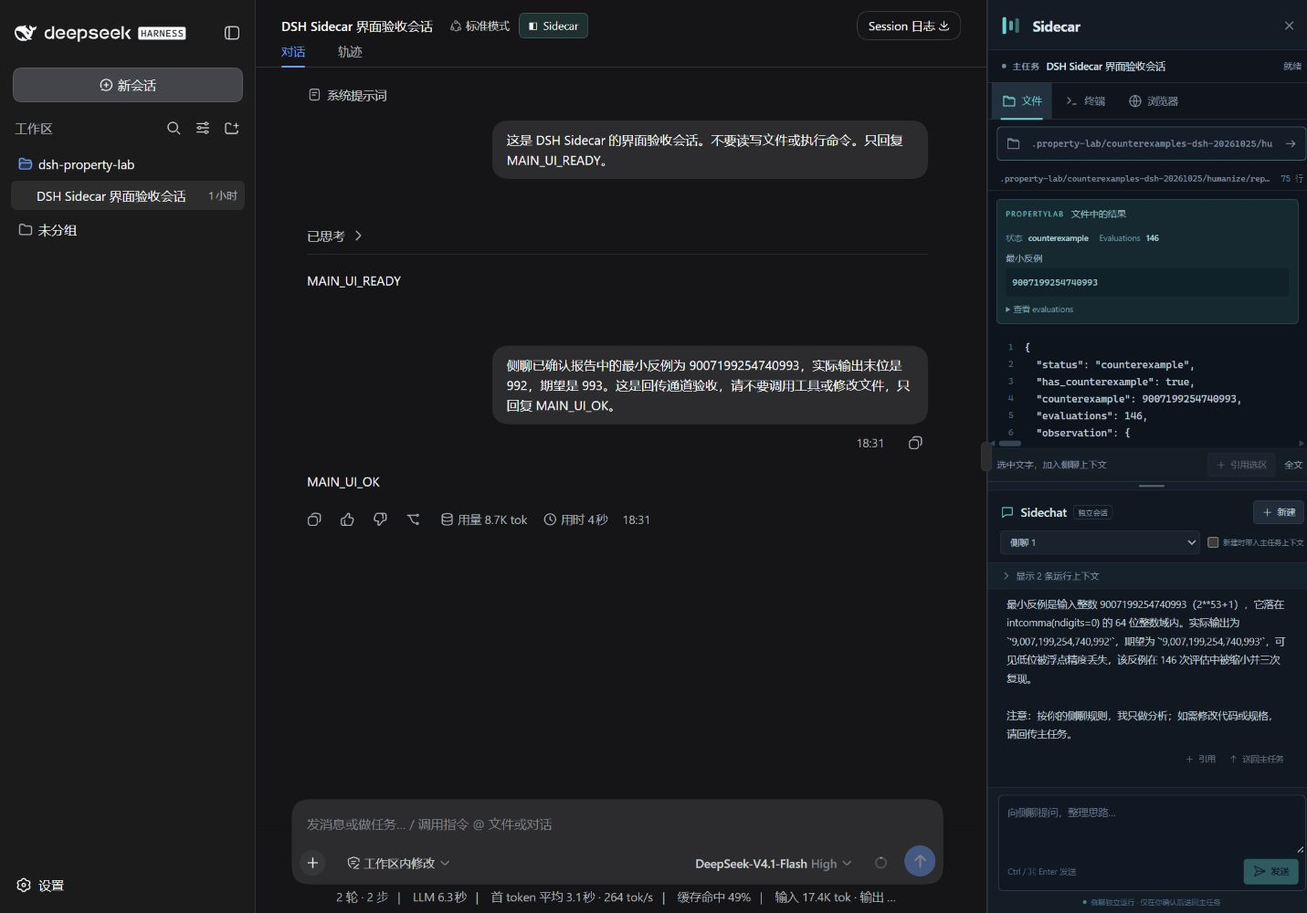
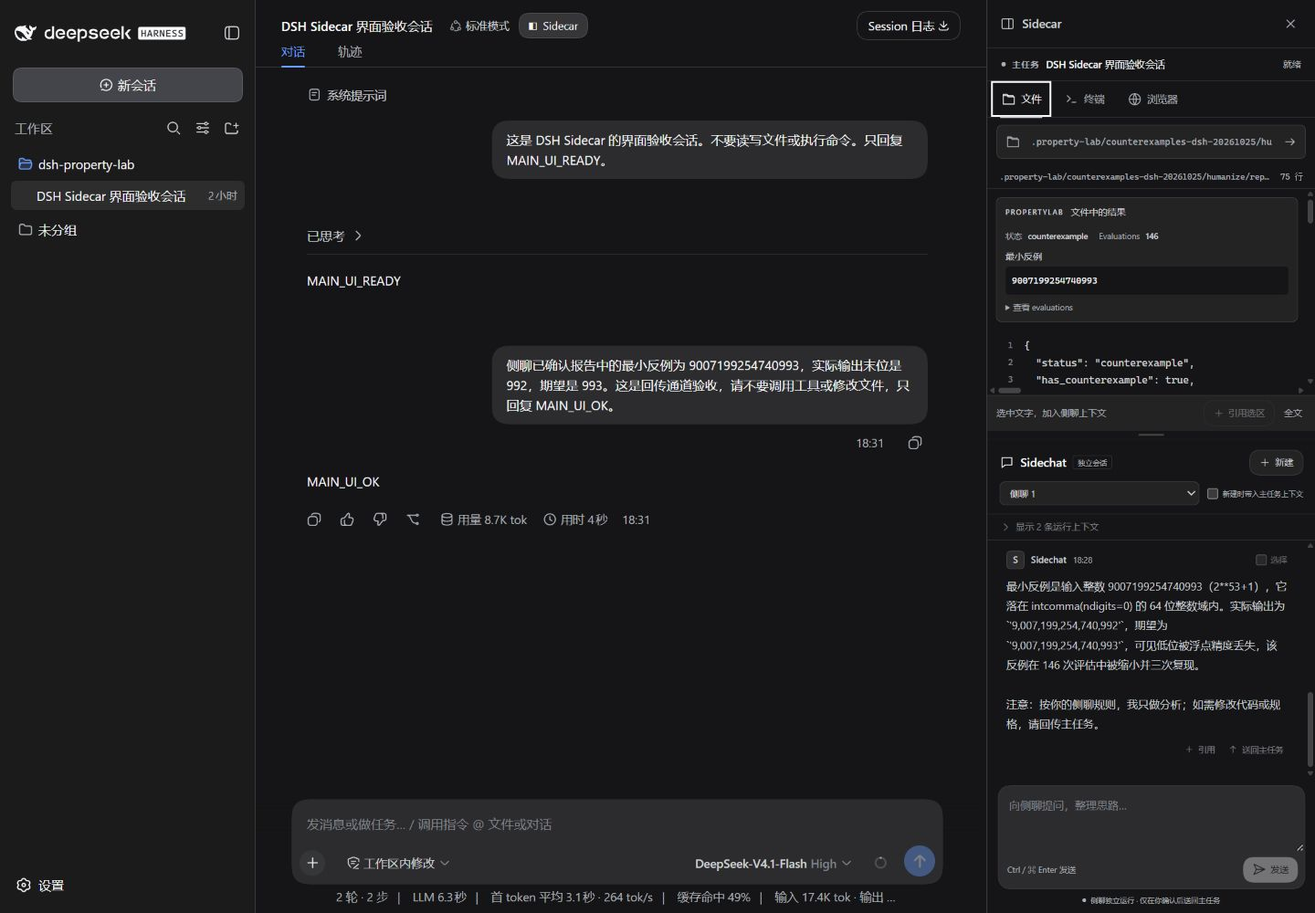
Match Sidecar to the native DSH neutral theme

diff --git a/src/panel.css b/src/panel.css
@@ -1,12 +1,22 @@
 .dsh-sidecar {
-  --sc-bg: #10151d;
-  --sc-surface: #151c26;
-  --sc-raised: #1b2430;
-  --sc-line: #283341;
-  --sc-ink: #dce6ef;
-  --sc-muted: #8494a6;
-  --sc-accent: #69d5d1;
-  --sc-accent-dim: #173b40;
+  /* DSH 0.1.2-rc.1 native theme aliases, with standalone dark fallbacks. */
+  --sc-bg: var(--dsw-alias-bg-base, #151517);
+  --sc-surface: var(--dsw-alias-bg-layer-1, #232324);
+  --sc-raised: var(--dsw-alias-bg-layer-2, #2c2c2e);
+  --sc-hover: var(--dsw-alias-interactive-bg-hover, #ffffff14);
+  --sc-active: var(--dsw-alias-interactive-bg-active, #ffffff24);
+  --sc-line: var(--dsw-alias-border-l2, #ffffff1f);
+  --sc-line-soft: var(--dsw-alias-border-l1, #ffffff0f);
+  --sc-focus: var(--dsw-alias-border-l4, #ffffff33);
+  --sc-ink: var(--dsw-alias-label-primary, #f9fafb);
+  --sc-secondary: var(--dsw-alias-label-secondary, #cfd3d6);
+  --sc-muted: var(--dsw-alias-label-tertiary, #adb2b8);
+  --sc-caption: var(--dsw-alias-label-caption, #81858c);
+  --sc-accent: var(--dsw-alias-button-primary-fill, #f9fafb);
+  --sc-accent-dim: var(--dsw-alias-bg-layer-2, #2c2c2e);
+  --sc-button-hover: var(--dsw-alias-button-primary-hover, #ebeef2);
+  --sc-button-ink: var(--dsw-alias-label-primary-foreground, #0f1115);
+  --sc-input: var(--dsw-specific-input-major, #2c2c2e);
   display: flex;
   flex-direction: column;
   position: relative;
@@ -19,10 +29,10 @@
   background: var(--sc-bg);
   color: var(--sc-ink);
   border-left: 1px solid var(--sc-line);
-  font-family: Inter, -apple-system, BlinkMacSystemFont, "Segoe UI", "Microsoft YaHei", sans-serif;
+  font-family: var(--dsw-font-family, -apple-system, BlinkMacSystemFont, "Segoe UI", "Microsoft YaHei", sans-serif);
   font-size: 12px;
   line-height: 1.5;
-  color-scheme: dark;
+  color-scheme: inherit;
   text-align: left;
   isolation: isolate;
   container-type: inline-size;
@@ -31,40 +41,36 @@
 .dsh-sidecar [hidden] { display: none !important; }
 .dsh-sidecar button, .dsh-sidecar input, .dsh-sidecar textarea, .dsh-sidecar select { font: inherit; color: inherit; letter-spacing: normal; }
 .dsh-sidecar button { display: inline-flex; align-items: center; justify-content: center; gap: 5px; margin: 0; padding: 0; border: 0; border-radius: 5px; background: transparent; box-shadow: none; cursor: pointer; line-height: 1.4; white-space: nowrap; text-transform: none; }
-.dsh-sidecar button:hover:not(:disabled), .dsh-sidecar a.dsh-sc-icon-button:hover { background: #23303d; color: #fff; }
+.dsh-sidecar button:hover:not(:disabled), .dsh-sidecar a.dsh-sc-icon-button:hover { background: var(--sc-hover); color: var(--sc-ink); }
 .dsh-sidecar button:disabled { cursor: default; opacity: .4; }
 .dsh-sidecar button:focus-visible, .dsh-sidecar a:focus-visible, .dsh-sidecar summary:focus-visible, .dsh-sidecar [tabindex]:focus-visible { outline: 2px solid var(--sc-accent); outline-offset: -2px; }
-.dsh-sidecar input:not([type="checkbox"]), .dsh-sidecar textarea, .dsh-sidecar select { width: 100%; min-width: 0; margin: 0; border: 1px solid var(--sc-line); border-radius: 5px; background: #101720; padding: 7px 9px; outline: none; box-shadow: none; }
-.dsh-sidecar input:focus, .dsh-sidecar textarea:focus, .dsh-sidecar select:focus { border-color: #4a9d9e; }
-.dsh-sidecar input::placeholder, .dsh-sidecar textarea::placeholder { color: #65778a; opacity: 1; }
+.dsh-sidecar input:not([type="checkbox"]), .dsh-sidecar textarea, .dsh-sidecar select { width: 100%; min-width: 0; margin: 0; border: 1px solid var(--sc-line); border-radius: 8px; background: var(--sc-surface); padding: 7px 9px; outline: none; box-shadow: none; }
+.dsh-sidecar input:focus, .dsh-sidecar textarea:focus, .dsh-sidecar select:focus { border-color: var(--sc-focus); }
+.dsh-sidecar input::placeholder, .dsh-sidecar textarea::placeholder { color: var(--sc-caption); opacity: 1; }
 .dsh-sidecar input[type="checkbox"] { flex: 0 0 auto; width: 12px; height: 12px; margin: 0; accent-color: var(--sc-accent); cursor: pointer; }
 .dsh-sidecar textarea { resize: vertical; line-height: 1.6; }
 .dsh-sidecar svg { flex: 0 0 auto; vertical-align: middle; }
 .dsh-sidecar p, .dsh-sidecar h2, .dsh-sidecar pre { margin: 0; }
 .dsh-sidecar pre { font-family: "Cascadia Code", "SFMono-Regular", Consolas, monospace; font-size: 11px; line-height: 1.65; }
 .dsh-sidecar summary { cursor: pointer; }
-.dsh-sidecar ::selection { background: #2b686d; color: #fff; }
-.dsh-sidecar * { scrollbar-width: thin; scrollbar-color: #344454 transparent; }
+.dsh-sidecar ::selection { background: var(--sc-active); color: var(--sc-ink); }
+.dsh-sidecar * { scrollbar-width: thin; scrollbar-color: var(--sc-focus) transparent; }
 .dsh-sidecar *::-webkit-scrollbar { width: 6px; height: 6px; }
-.dsh-sidecar *::-webkit-scrollbar-thumb { background: #344454; border-radius: 6px; }
+.dsh-sidecar *::-webkit-scrollbar-thumb { background: var(--sc-focus); border-radius: 6px; }
 .dsh-sidecar *::-webkit-scrollbar-track { background: transparent; }
-.dsh-sc-heading { display: flex; flex: 0 0 auto; align-items: center; justify-content: space-between; padding: 15px 16px 13px; border-bottom: 1px solid var(--sc-line); background: #141b24; }
-.dsh-sc-brand { display: flex; align-items: center; gap: 10px; }
-.dsh-sc-brand > span:last-child { display: flex; align-items: baseline; gap: 10px; font-size: 16px; font-weight: 650; letter-spacing: -.4px; }
+.dsh-sc-heading { display: flex; flex: 0 0 auto; align-items: center; justify-content: space-between; padding: 13px 14px; border-bottom: 1px solid var(--sc-line); background: var(--sc-bg); }
+.dsh-sc-brand { display: flex; align-items: center; gap: 8px;  color: var(--sc-secondary); }
+.dsh-sc-brand > span:last-child { display: flex; align-items: baseline; gap: 10px; font-size: 13px; font-weight: 500; letter-spacing: normal; }
 .dsh-sc-brand small { font-size: 10px; font-weight: 400; letter-spacing: .2px; color: var(--sc-muted); }
-.dsh-sc-brand-mark { display: flex; align-items: center; gap: 3px; width: 23px; height: 24px; }
-.dsh-sc-brand-mark i { display: block; width: 4px; height: 19px; border-radius: 2px; background: var(--sc-accent); }
-.dsh-sc-brand-mark i:nth-child(2) { height: 11px; opacity: .72; }
-.dsh-sc-brand-mark i:nth-child(3) { height: 16px; opacity: .45; }
 .dsh-sidecar .dsh-sc-icon-button { width: 26px; height: 26px; flex: 0 0 auto; display: inline-flex; align-items: center; justify-content: center; border-radius: 5px; color: var(--sc-muted); text-decoration: none; }
 .dsh-sidecar .dsh-sc-icon-button.is-active { background: var(--sc-raised); color: var(--sc-accent); }
 .dsh-sc-main-context { display: flex; align-items: center; gap: 7px; min-height: 36px; padding: 7px 15px; border-bottom: 1px solid var(--sc-line); }
 .dsh-sc-main-context strong { overflow: hidden; text-overflow: ellipsis; white-space: nowrap; font-size: 11px; font-weight: 500; }
 .dsh-sc-eyebrow { font-size: 9px; font-weight: 600; letter-spacing: 1px; color: var(--sc-muted); white-space: nowrap; }
-.dsh-sc-status-dot { display: inline-block; width: 5px; height: 5px; flex: 0 0 auto; border-radius: 50%; background: #71899a; }
+.dsh-sc-status-dot { display: inline-block; width: 5px; height: 5px; flex: 0 0 auto; border-radius: 50%; background: var(--sc-muted); }
 .dsh-sc-status-dot.is-running, .dsh-sc-live-dot { background: var(--sc-accent); }
 .dsh-sc-status-label { color: var(--sc-muted); white-space: nowrap; font-size: 10px; margin-left: auto; }
-.dsh-sc-notice { display: flex; align-items: flex-start; gap: 7px; padding: 7px 12px; background: #163135; border-bottom: 1px solid #2b4a4e; color: #a9e4de; font-size: 11px; flex: 0 0 auto; }
+.dsh-sc-notice { display: flex; align-items: flex-start; gap: 7px; padding: 7px 12px; background: var(--sc-surface); border-bottom: 1px solid var(--sc-line); color: var(--sc-secondary); font-size: 11px; flex: 0 0 auto; }
 .dsh-sc-notice > svg { margin-top: 3px; }
 .dsh-sc-notice > span { flex: 1; overflow-wrap: anywhere; }
 .dsh-sc-notice .dsh-sc-icon-button { width: 20px; height: 20px; }
@@ -75,161 +81,161 @@
 .dsh-sc-workbench { display: flex; flex: 0 0 48%; min-height: 80px; flex-direction: column; overflow: hidden; }
 .dsh-sc-tabs { display: flex; align-items: stretch; flex: 0 0 40px; padding: 0 10px; border-bottom: 1px solid var(--sc-line); gap: 3px; }
 .dsh-sidecar .dsh-sc-tabs > button { position: relative; padding: 0 11px; border-radius: 0; gap: 6px; color: var(--sc-muted); font-size: 11px; }
-.dsh-sidecar .dsh-sc-tabs > button[aria-selected="true"] { color: var(--sc-accent); }
-.dsh-sc-tabs > button[aria-selected="true"]::after { content: ""; position: absolute; bottom: -1px; left: 10px; right: 10px; height: 2px; background: var(--sc-accent); }
-.dsh-sc-workbench-label { align-self: center; margin-left: auto; padding-left: 6px; font-size: 8px; letter-spacing: 1px; color: #576b7f; }
+.dsh-sidecar .dsh-sc-tabs > button[aria-selected="true"] { color: var(--sc-ink); }
+.dsh-sc-tabs > button[aria-selected="true"]::after { content: ""; position: absolute; bottom: -1px; left: 10px; right: 10px; height: 2px; background: var(--sc-secondary); }
+.dsh-sc-workbench-label { align-self: center; margin-left: auto; padding-left: 6px; font-size: 8px; letter-spacing: 1px; color: var(--sc-muted); }
 .dsh-sc-tool { display: flex; flex: 1; flex-direction: column; min-height: 0; overflow: hidden; }
-.dsh-sc-address { display: flex; align-items: center; flex: 0 0 auto; min-height: 37px; margin: 8px 10px; padding: 2px 4px; gap: 3px; border: 1px solid var(--sc-line); border-radius: 6px; background: #141d27; color: var(--sc-muted); }
-.dsh-sc-address:focus-within { border-color: #417f83; }
+.dsh-sc-address { display: flex; align-items: center; flex: 0 0 auto; min-height: 37px; margin: 8px 10px; padding: 2px 4px; gap: 3px; border: 1px solid var(--sc-line); border-radius: 8px; background: var(--sc-surface); color: var(--sc-muted); }
+.dsh-sc-address:focus-within { border-color: var(--sc-focus); }
 .dsh-sidecar .dsh-sc-address input { background: transparent; border: 0; padding: 4px; font-family: "Cascadia Code", Consolas, monospace; font-size: 10px; border-radius: 0; }
 .dsh-sc-address > svg { margin-left: 5px; }
-.dsh-sc-directory { flex: 0 1 auto; min-height: 60px; max-height: 45%; margin: 0 10px 7px; border: 1px solid var(--sc-line); border-radius: 6px; overflow: hidden; display: flex; flex-direction: column; background: #131b25; }
-.dsh-sc-directory-heading { display: flex; align-items: center; gap: 4px; padding: 0 5px; min-height: 28px; font-size: 10px; color: var(--sc-muted); border-bottom: 1px solid #222e3b; }
+.dsh-sc-directory { flex: 0 1 auto; min-height: 60px; max-height: 45%; margin: 0 10px 7px; border: 1px solid var(--sc-line); border-radius: 6px; overflow: hidden; display: flex; flex-direction: column; background: var(--sc-bg); }
+.dsh-sc-directory-heading { display: flex; align-items: center; gap: 4px; padding: 0 5px; min-height: 28px; font-size: 10px; color: var(--sc-muted); border-bottom: 1px solid var(--sc-line); }
 .dsh-sc-directory-heading > span { flex: 1; min-width: 0; white-space: nowrap; overflow: hidden; text-overflow: ellipsis; }
 .dsh-sc-directory-heading .dsh-sc-icon-button { width: 22px; height: 22px; }
 .dsh-sc-file-list { overflow-y: auto; padding: 4px; }
-.dsh-sidecar .dsh-sc-file-entry { width: 100%; padding: 5px 7px; min-height: 27px; gap: 7px; justify-content: flex-start; font-size: 11px; color: #aab9c8; }
+.dsh-sidecar .dsh-sc-file-entry { width: 100%; padding: 5px 7px; min-height: 27px; gap: 7px; justify-content: flex-start; font-size: 11px; color: var(--sc-secondary); }
 .dsh-sc-file-entry > span { min-width: 0; overflow: hidden; text-overflow: ellipsis; white-space: nowrap; }
-.dsh-sc-file-entry > small { color: #687f93; font-size: 9px; flex: 0 0 auto; margin-left: auto; }
-.dsh-sidecar .dsh-sc-file-entry.is-current { color: var(--sc-accent); background: #1c323b; }
-.dsh-sc-file-meta { display: flex; justify-content: space-between; gap: 10px; padding: 5px 13px 6px; font-family: "Cascadia Code", Consolas, monospace; font-size: 9px; color: var(--sc-muted); border-bottom: 1px solid #202b37; }
+.dsh-sc-file-entry > small { color: var(--sc-muted); font-size: 9px; flex: 0 0 auto; margin-left: auto; }
+.dsh-sidecar .dsh-sc-file-entry.is-current { color: var(--sc-ink); background: var(--sc-hover); }
+.dsh-sc-file-meta { display: flex; justify-content: space-between; gap: 10px; padding: 5px 13px 6px; font-family: "Cascadia Code", Consolas, monospace; font-size: 9px; color: var(--sc-muted); border-bottom: 1px solid var(--sc-line); }
 .dsh-sc-file-meta > span:first-child { min-width: 0; overflow: hidden; text-overflow: ellipsis; white-space: nowrap; }
-.dsh-sc-file-meta > span:last-child { flex: 0 0 auto; color: #677c8f; }
-.dsh-sc-file-content { flex: 1; min-height: 30px; overflow: auto; background: #0d141d; }
-.dsh-sc-source { padding: 8px 0 10px; min-width: 100%; width: max-content; color: #c0cddb; font-family: "Cascadia Code", "SFMono-Regular", Consolas, monospace; font-size: 11px; line-height: 1.7; }
+.dsh-sc-file-meta > span:last-child { flex: 0 0 auto; color: var(--sc-muted); }
+.dsh-sc-file-content { flex: 1; min-height: 30px; overflow: auto; background: var(--sc-bg); }
+.dsh-sc-source { padding: 8px 0 10px; min-width: 100%; width: max-content; color: var(--sc-secondary); font-family: "Cascadia Code", "SFMono-Regular", Consolas, monospace; font-size: 11px; line-height: 1.7; }
 .dsh-sc-source-line { display: flex; min-height: 18.7px; }
-.dsh-sc-line-number { position: sticky; left: 0; flex: 0 0 40px; text-align: right; padding: 0 12px 0 7px; background: #0d141d; color: #506376; font-size: 10px; user-select: none; }
+.dsh-sc-line-number { position: sticky; left: 0; flex: 0 0 40px; text-align: right; padding: 0 12px 0 7px; background: var(--sc-bg); color: var(--sc-caption); font-size: 10px; user-select: none; }
 .dsh-sc-line-text { white-space: pre; padding-right: 12px; }
-.dsh-sc-source-actions { display: flex; align-items: center; flex: 0 0 auto; gap: 6px; min-height: 35px; padding: 5px 10px; border-top: 1px solid #222e3a; background: #151d27; }
+.dsh-sc-source-actions { display: flex; align-items: center; flex: 0 0 auto; gap: 6px; min-height: 35px; padding: 5px 10px; border-top: 1px solid var(--sc-line); background: var(--sc-surface); }
 .dsh-sc-source-actions > span { flex: 1; min-width: 0; font-size: 10px; color: var(--sc-muted); overflow: hidden; text-overflow: ellipsis; white-space: nowrap; }
-.dsh-sidecar .dsh-sc-small-button { min-height: 26px; padding: 5px 8px; background: #202c39; border: 1px solid #2f3d4c; border-radius: 5px; color: #bed0dc; font-size: 10px; font-weight: 500; }
-.dsh-sidecar .dsh-sc-small-button.is-accent { background: #1b3b40; color: #b5ece6; border-color: #2d5b60; }
-.dsh-sidecar .dsh-sc-small-button.is-accent:hover:not(:disabled) { background: #255157; }
+.dsh-sidecar .dsh-sc-small-button { min-height: 28px; padding: 5px 10px; background: var(--sc-surface); border: 1px solid var(--sc-line); border-radius: 14px; color: var(--sc-secondary); font-size: 10px; font-weight: 500; }
+.dsh-sidecar .dsh-sc-small-button.is-accent { background: var(--sc-raised); color: var(--sc-ink); border-color: var(--sc-focus); }
+.dsh-sidecar .dsh-sc-small-button.is-accent:hover:not(:disabled) { background: var(--sc-active); }
 .dsh-sidecar .dsh-sc-small-button.is-danger { background: #38282d; color: #ecadb5; border-color: #593840; }
-.dsh-sidecar .dsh-sc-text-button { font-size: 10px; padding: 4px; color: #8ea4b7; }
-.dsh-sc-footnote { flex: 0 0 auto; padding: 5px 11px; font-size: 9px; line-height: 1.5; color: #7d91a5; background: #141c25; }
+.dsh-sidecar .dsh-sc-text-button { font-size: 10px; padding: 4px; color: var(--sc-muted); }
+.dsh-sc-footnote { flex: 0 0 auto; padding: 5px 11px; font-size: 9px; line-height: 1.5; color: var(--sc-muted); background: var(--sc-bg); }
 .dsh-sc-empty { display: flex; flex: 1; min-height: 0; flex-direction: column; align-items: center; justify-content: center; text-align: center; gap: 9px; padding: 28px 25px; overflow: auto; }
-.dsh-sc-empty-icon { display: flex; align-items: center; justify-content: center; width: 44px; height: 44px; background: #172731; color: #6ba9ae; border: 1px solid #253d48; border-radius: 12px; margin-bottom: 4px; }
-.dsh-sc-empty strong { font-size: 12px; font-weight: 500; color: #aebfcd; }
-.dsh-sc-empty p { font-size: 10px; color: #6f869a; line-height: 1.8; max-width: 290px; }
+.dsh-sc-empty-icon { display: flex; align-items: center; justify-content: center; width: 44px; height: 44px; background: transparent; color: var(--sc-caption); border: 0; border-radius: 0; margin-bottom: 4px; }
+.dsh-sc-empty strong { font-size: 12px; font-weight: 500; color: var(--sc-secondary); }
+.dsh-sc-empty p { font-size: 10px; color: var(--sc-muted); line-height: 1.8; max-width: 290px; }
 .dsh-sc-empty.is-compact { gap: 6px; padding: 16px 23px; }
 .dsh-sc-empty.is-compact .dsh-sc-empty-icon { width: 37px; height: 37px; border-radius: 10px; }
-.dsh-sc-command-box { margin: 10px 10px 7px; border: 1px solid var(--sc-line); border-radius: 6px; overflow: hidden; background: #141d27; flex: 0 0 auto; }
-.dsh-sc-small-label { display: block; font-size: 10px; font-weight: 500; color: #9cb0c1; }
+.dsh-sc-command-box { margin: 10px 10px 7px; border: 1px solid var(--sc-line); border-radius: 8px; overflow: hidden; background: var(--sc-surface); flex: 0 0 auto; }
+.dsh-sc-small-label { display: block; font-size: 10px; font-weight: 500; color: var(--sc-secondary); }
 .dsh-sc-command-box .dsh-sc-small-label { display: flex; align-items: center; justify-content: space-between; padding: 7px 9px 0; }
-.dsh-sc-small-label > span { color: #677f93; font-size: 9px; font-weight: 400; }
+.dsh-sc-small-label > span { color: var(--sc-muted); font-size: 9px; font-weight: 400; }
 .dsh-sidecar .dsh-sc-command-box textarea { display: block; border: 0; border-radius: 0; background: transparent; font-family: "Cascadia Code", Consolas, monospace; font-size: 11px; resize: none; min-height: 52px; }
 .dsh-sc-command-actions { display: flex; align-items: center; justify-content: space-between; gap: 7px; padding: 5px 7px 7px; }
-.dsh-sc-command-actions > span { color: #70879b; font-family: "Cascadia Code", Consolas, monospace; font-size: 9px; min-width: 0; overflow: hidden; text-overflow: ellipsis; white-space: nowrap; }
-.dsh-sc-terminal-meta { display: flex; gap: 8px; align-items: center; padding: 4px 12px 7px; color: #7f97ac; font-family: "Cascadia Code", Consolas, monospace; font-size: 10px; }
+.dsh-sc-command-actions > span { color: var(--sc-muted); font-family: "Cascadia Code", Consolas, monospace; font-size: 9px; min-width: 0; overflow: hidden; text-overflow: ellipsis; white-space: nowrap; }
+.dsh-sc-terminal-meta { display: flex; gap: 8px; align-items: center; padding: 4px 12px 7px; color: var(--sc-muted); font-family: "Cascadia Code", Consolas, monospace; font-size: 10px; }
 .dsh-sc-terminal-meta > span:first-child { flex: 1; min-width: 0; overflow: hidden; text-overflow: ellipsis; white-space: nowrap; }
 .dsh-sc-terminal-meta > span:last-child { flex: 0 0 auto; font-size: 9px; }
 .dsh-sc-terminal-warning { display: grid; gap: 3px; flex: 0 0 auto; margin: 0 10px 8px; padding: 8px 10px; border: 1px solid #6a5434; border-radius: 5px; background: #332c21; color: #d5be96; font-size: 10px; line-height: 1.6; }
 .dsh-sc-terminal-warning strong { color: #edce92; font-weight: 600; }
-.dsh-sc-terminal-scroll { flex: 1; min-height: 25px; overflow: auto; background: #0c131b; border-top: 1px solid #1e2934; }
-.dsh-sc-terminal-output { padding: 10px 12px; color: #b2c4d1; white-space: pre-wrap; overflow-wrap: anywhere; min-height: 100%; }
+.dsh-sc-terminal-scroll { flex: 1; min-height: 25px; overflow: auto; background: var(--sc-bg); border-top: 1px solid var(--sc-line); }
+.dsh-sc-terminal-output { padding: 10px 12px; color: var(--sc-secondary); white-space: pre-wrap; overflow-wrap: anywhere; min-height: 100%; }
 .dsh-sc-browser-frame { display: flex; flex-direction: column; flex: 1; min-height: 0; }
 .dsh-sc-browser-frame iframe { flex: 1; min-height: 30px; width: 100%; border: 0; background: white; }
-.dsh-sc-web-quote { flex: 0 0 auto; max-height: 72%; overflow: auto; border-top: 1px solid var(--sc-line); background: #151d27; }
-.dsh-sc-web-quote > summary { display: flex; align-items: center; gap: 6px; padding: 8px 12px; font-size: 10px; color: #a8bdcd; list-style: none; }
+.dsh-sc-web-quote { flex: 0 0 auto; max-height: 72%; overflow: auto; border-top: 1px solid var(--sc-line); background: var(--sc-surface); }
+.dsh-sc-web-quote > summary { display: flex; align-items: center; gap: 6px; padding: 8px 12px; font-size: 10px; color: var(--sc-secondary); list-style: none; }
 .dsh-sc-web-quote > summary::-webkit-details-marker { display: none; }
-.dsh-sc-web-quote > summary::after { content: "+"; margin-left: auto; color: #70889a; }
+.dsh-sc-web-quote > summary::after { content: "+"; margin-left: auto; color: var(--sc-muted); }
 .dsh-sc-web-quote[open] > summary::after { content: "−"; }
 .dsh-sc-web-quote > div { display: grid; gap: 7px; padding: 0 10px 10px; }
 .dsh-sc-web-quote input, .dsh-sc-web-quote textarea { font-size: 10px !important; }
 .dsh-sc-web-quote .dsh-sc-small-button { justify-self: end; }
-.dsh-sc-splitter { flex: 0 0 10px; display: flex; align-items: center; justify-content: center; background: #151e28; border-top: 1px solid #293543; border-bottom: 1px solid #293543; cursor: row-resize; touch-action: none; position: relative; z-index: 2; }
-.dsh-sc-splitter > span { width: 28px; height: 2px; background: #556b7d; border-radius: 2px; }
-.dsh-sc-splitter:hover, .dsh-sidecar.is-resizing .dsh-sc-splitter { background: #1c363e; }
+.dsh-sc-splitter { flex: 0 0 10px; display: flex; align-items: center; justify-content: center; background: var(--sc-bg); border-top: 1px solid var(--sc-line-soft); border-bottom: 1px solid var(--sc-line-soft); cursor: row-resize; touch-action: none; position: relative; z-index: 2; }
+.dsh-sc-splitter > span { width: 28px; height: 2px; background: var(--sc-focus); border-radius: 2px; }
+.dsh-sc-splitter:hover, .dsh-sidecar.is-resizing .dsh-sc-splitter { background: var(--sc-hover); }
 .dsh-sc-splitter:hover > span { background: var(--sc-accent); }
 .dsh-sidecar.is-resizing { user-select: none; cursor: row-resize; }
 .dsh-sidecar.is-resizing iframe { pointer-events: none; }
-.dsh-sc-sidechat { display: flex; flex-direction: column; flex: 1; min-height: 150px; overflow: hidden; background: #111821; }
+.dsh-sc-sidechat { display: flex; flex-direction: column; flex: 1; min-height: 150px; overflow: hidden; background: var(--sc-bg); }
 .dsh-sc-chat-heading { display: flex; align-items: center; justify-content: space-between; flex: 0 0 auto; gap: 9px; padding: 11px 13px 7px; }
 .dsh-sc-chat-heading > div { display: flex; align-items: center; gap: 7px; }
 .dsh-sc-chat-heading > div > svg { color: var(--sc-accent); }
-.dsh-sc-chat-heading strong { font-size: 13px; font-weight: 600; }
-.dsh-sc-tag { display: inline-flex; flex: 0 0 auto; align-items: center; border: 1px solid #2c3c4a; border-radius: 4px; color: #8da3b5; padding: 1px 5px; font-size: 8px; white-space: nowrap; }
-.dsh-sc-chat-session { display: flex; flex-wrap: wrap; align-items: center; gap: 7px 9px; flex: 0 0 auto; padding: 0 13px 9px; border-bottom: 1px solid #202d3a; }
-.dsh-sidecar .dsh-sc-chat-session select { flex: 1 1 160px; font-size: 10px; padding: 5px 7px; color: #b2c3d1; background: #19222d; }
-.dsh-sc-context-option { display: flex; align-items: center; gap: 5px; font-size: 9px; color: #748a9e; white-space: nowrap; cursor: pointer; }
-.dsh-sc-selection-bar { display: flex; align-items: center; gap: 7px; padding: 6px 12px; background: #19353b; color: #9ccacb; font-size: 10px; flex: 0 0 auto; }
+.dsh-sc-chat-heading strong { font-size: 13px; font-weight: 500; }
+.dsh-sc-tag { display: inline-flex; flex: 0 0 auto; align-items: center; border: 1px solid var(--sc-line); border-radius: 4px; color: var(--sc-muted); padding: 1px 5px; font-size: 8px; white-space: nowrap; }
+.dsh-sc-chat-session { display: flex; flex-wrap: wrap; align-items: center; gap: 7px 9px; flex: 0 0 auto; padding: 0 13px 9px; border-bottom: 1px solid var(--sc-line); }
+.dsh-sidecar .dsh-sc-chat-session select { flex: 1 1 160px; font-size: 10px; padding: 5px 7px; color: var(--sc-secondary); background: var(--sc-surface); }
+.dsh-sc-context-option { display: flex; align-items: center; gap: 5px; font-size: 9px; color: var(--sc-muted); white-space: nowrap; cursor: pointer; }
+.dsh-sc-selection-bar { display: flex; align-items: center; gap: 7px; padding: 6px 12px; background: var(--sc-surface); color: var(--sc-secondary); font-size: 10px; flex: 0 0 auto; }
 .dsh-sc-selection-bar > span { flex: 1; }
 .dsh-sc-messages { display: flex; flex: 1; flex-direction: column; min-height: 0; overflow-y: auto; overscroll-behavior: contain; padding: 5px 0 10px; }
-.dsh-sc-loading { padding: 20px; text-align: center; color: #70889c; font-size: 11px; }
+.dsh-sc-loading { padding: 20px; text-align: center; color: var(--sc-muted); font-size: 11px; }
 .dsh-sc-message { margin: 5px 10px; padding: 9px 10px 5px; border: 1px solid transparent; border-radius: 8px; }
-.dsh-sc-message.is-user { background: #192431; border-color: #253543; }
-.dsh-sc-message.is-selected { border-color: #407b80; background: #192e36; }
+.dsh-sc-message.is-user { background: var(--sc-input); border-color: transparent;  border-radius: 16px; }
+.dsh-sc-message.is-selected { border-color: var(--sc-focus); background: var(--sc-hover); }
 .dsh-sc-message-heading { display: flex; align-items: center; gap: 7px; margin-bottom: 8px; }
-.dsh-sc-avatar { width: 20px; height: 20px; display: inline-flex; align-items: center; justify-content: center; background: #234048; color: #9cded9; border: 1px solid #35565f; border-radius: 6px; font-size: 10px; font-weight: 600; }
-.dsh-sc-avatar.is-user { background: #2c3b4d; border-color: #3d5268; color: #b2c5d9; font-size: 9px; }
-.dsh-sc-avatar.is-tool, .dsh-sc-avatar.is-system { background: #252734; color: #9ea2b8; border-color: #3b3b4c; }
-.dsh-sc-message-heading strong { font-size: 10px; font-weight: 600; color: #b8cbd8; }
-.dsh-sc-message-heading time { color: #566e82; font-size: 9px; }
-.dsh-sc-select-message { margin-left: auto; display: inline-flex; align-items: center; gap: 4px; color: #688298; font-size: 9px; cursor: pointer; opacity: .5; }
+.dsh-sc-avatar { width: 20px; height: 20px; display: inline-flex; align-items: center; justify-content: center; background: var(--sc-raised); color: var(--sc-secondary); border: 1px solid var(--sc-line); border-radius: 6px; font-size: 10px; font-weight: 600; }
+.dsh-sc-avatar.is-user { background: var(--sc-raised); border-color: var(--sc-caption); color: var(--sc-secondary); font-size: 9px; }
+.dsh-sc-avatar.is-tool, .dsh-sc-avatar.is-system { background: var(--sc-surface); color: var(--sc-muted); border-color: var(--sc-raised); }
+.dsh-sc-message-heading strong { font-size: 10px; font-weight: 600; color: var(--sc-secondary); }
+.dsh-sc-message-heading time { color: var(--sc-muted); font-size: 9px; }
+.dsh-sc-select-message { margin-left: auto; display: inline-flex; align-items: center; gap: 4px; color: var(--sc-muted); font-size: 9px; cursor: pointer; opacity: .5; }
 .dsh-sc-message:hover .dsh-sc-select-message, .dsh-sc-message:focus-within .dsh-sc-select-message, .dsh-sc-message.is-selected .dsh-sc-select-message { opacity: 1; }
-.dsh-sc-message-text { color: #c3d2de; font-size: 11px; line-height: 1.85; white-space: pre-wrap; overflow-wrap: anywhere; word-break: normal; }
-.dsh-sidecar .dsh-sc-runtime-toggle { flex: 0 0 auto; justify-content: flex-start; border-radius: 0; padding: 7px 14px; background: #15212b; border-bottom: 1px solid #233340; color: #829caf; font-size: 10px; }
-.dsh-sidecar .dsh-sc-message-expand { margin-top: 7px; padding: 4px 6px; border: 1px solid #385361; border-radius: 4px; background: #20343f; color: #9fcace; font-size: 9px; }
-.dsh-sc-message.is-tool .dsh-sc-message-text, .dsh-sc-message.is-system .dsh-sc-message-text { font-family: "Cascadia Code", Consolas, monospace; font-size: 10px; color: #91a6b8; }
+.dsh-sc-message-text { color: var(--sc-secondary); font-size: 12px; line-height: 1.8; white-space: pre-wrap; overflow-wrap: anywhere; word-break: normal; }
+.dsh-sidecar .dsh-sc-runtime-toggle { flex: 0 0 auto; justify-content: flex-start; border-radius: 0; padding: 7px 14px; background: transparent; border-bottom: 1px solid var(--sc-line); color: var(--sc-caption); font-size: 10px; }
+.dsh-sidecar .dsh-sc-message-expand { margin-top: 7px; padding: 4px 6px; border: 1px solid var(--sc-line); border-radius: 4px; background: transparent; color: var(--sc-secondary); font-size: 9px; }
+.dsh-sc-message.is-tool .dsh-sc-message-text, .dsh-sc-message.is-system .dsh-sc-message-text { font-family: "Cascadia Code", Consolas, monospace; font-size: 10px; color: var(--sc-muted); }
 .dsh-sc-message-actions { display: flex; justify-content: flex-end; gap: 6px; margin-top: 7px; opacity: .65; }
 .dsh-sc-message:hover .dsh-sc-message-actions, .dsh-sc-message:focus-within .dsh-sc-message-actions { opacity: 1; }
 .dsh-sc-message-actions .dsh-sc-text-button { font-size: 9px; }
-.dsh-sc-generating { display: flex; align-items: center; gap: 6px; padding: 4px 21px; color: #83b8b9; font-size: 10px; }
+.dsh-sc-generating { display: flex; align-items: center; gap: 6px; padding: 4px 21px; color: var(--sc-secondary); font-size: 10px; }
 .dsh-sc-generating .dsh-sc-muted { margin-left: auto; font-size: 9px; }
-.dsh-sc-live-dot { flex: 0 0 auto; display: inline-block; width: 5px; height: 5px; border-radius: 50%; box-shadow: 0 0 0 3px #69d5d111; animation: dsh-sc-pulse 1.8s ease-in-out infinite; }
-.dsh-sc-compose-area { padding: 8px 11px 6px; border-top: 1px solid #22303d; background: #141c26; flex: 0 0 auto; }
-.dsh-sc-packets { border: 1px solid #2d414d; border-radius: 6px; margin-bottom: 7px; background: #17252e; overflow: hidden; }
-.dsh-sidecar .dsh-sc-packets-heading { display: flex; width: 100%; border-radius: 0; justify-content: flex-start; gap: 6px; padding: 7px 9px; color: #a4c4ce; font-size: 10px; }
+.dsh-sc-live-dot { flex: 0 0 auto; display: inline-block; width: 5px; height: 5px; border-radius: 50%; box-shadow: 0 0 0 3px #bebebe11; animation: dsh-sc-pulse 1.8s ease-in-out infinite; }
+.dsh-sc-compose-area { padding: 8px 11px 8px; border-top: 0; background: var(--sc-bg); flex: 0 0 auto; }
+.dsh-sc-packets { border: 1px solid var(--sc-line); border-radius: 6px; margin-bottom: 7px; background: var(--sc-surface); overflow: hidden; }
+.dsh-sidecar .dsh-sc-packets-heading { display: flex; width: 100%; border-radius: 0; justify-content: flex-start; gap: 6px; padding: 7px 9px; color: var(--sc-secondary); font-size: 10px; }
 .dsh-sc-packets-heading strong { font-size: 10px; font-weight: 500; }
-.dsh-sc-packets-heading > span { padding: 0 4px; border-radius: 3px; background: #29434e; color: #b5d8dc; font-size: 9px; }
-.dsh-sc-packets-heading small { margin-left: auto; font-size: 9px; color: #658b9b; }
+.dsh-sc-packets-heading > span { padding: 0 4px; border-radius: 3px; background: var(--sc-caption); color: var(--sc-secondary); font-size: 9px; }
+.dsh-sc-packets-heading small { margin-left: auto; font-size: 9px; color: var(--sc-muted); }
 .dsh-sc-packet-list { max-height: 130px; overflow-y: auto; padding: 0 6px 5px; }
-.dsh-sc-packet { display: flex; align-items: flex-start; padding: 5px 0; gap: 4px; border-top: 1px solid #263a45; }
+.dsh-sc-packet { display: flex; align-items: flex-start; padding: 5px 0; gap: 4px; border-top: 1px solid var(--sc-line); }
 .dsh-sc-packet > details { flex: 1; min-width: 0; }
-.dsh-sc-packet summary { display: flex; align-items: center; gap: 6px; list-style: none; min-height: 20px; font-size: 9px; color: #9bb1c2; }
+.dsh-sc-packet summary { display: flex; align-items: center; gap: 6px; list-style: none; min-height: 20px; font-size: 9px; color: var(--sc-secondary); }
 .dsh-sc-packet summary::-webkit-details-marker { display: none; }
 .dsh-sc-packet summary > span:not(.dsh-sc-packet-kind) { flex: 1; min-width: 0; overflow: hidden; white-space: nowrap; text-overflow: ellipsis; }
-.dsh-sc-packet summary small { font-family: "Cascadia Code", Consolas, monospace; font-size: 9px; color: #608d9d; white-space: nowrap; }
-.dsh-sc-packet-kind { flex: 0 0 auto; font-size: 8px; padding: 1px 4px; border-radius: 3px; background: #223944; color: #82b8c1; }
+.dsh-sc-packet summary small { font-family: "Cascadia Code", Consolas, monospace; font-size: 9px; color: var(--sc-muted); white-space: nowrap; }
+.dsh-sc-packet-kind { flex: 0 0 auto; font-size: 8px; padding: 1px 4px; border-radius: 3px; background: var(--sc-raised); color: var(--sc-secondary); }
 .dsh-sc-packet .dsh-sc-icon-button { width: 20px; height: 20px; }
-.dsh-sc-packet pre { margin: 5px 0; padding: 7px; max-height: 160px; overflow: auto; white-space: pre-wrap; overflow-wrap: anywhere; font-size: 9px; border-radius: 4px; background: #0e1b24; color: #8fa7b8; }
-.dsh-sc-composer { border: 1px solid #344656; border-radius: 7px; background: #101923; overflow: hidden; }
-.dsh-sc-composer:focus-within { border-color: #43858a; box-shadow: 0 0 0 1px #3c797622; }
-.dsh-sidecar .dsh-sc-composer textarea { min-height: 56px; max-height: 160px; display: block; border: 0; border-radius: 0; padding: 9px 10px 2px; background: transparent; font-size: 11px; resize: vertical; }
+.dsh-sc-packet pre { margin: 5px 0; padding: 7px; max-height: 160px; overflow: auto; white-space: pre-wrap; overflow-wrap: anywhere; font-size: 9px; border-radius: 4px; background: var(--sc-bg); color: var(--sc-muted); }
+.dsh-sc-composer { border: 1px solid var(--sc-line-soft); border-radius: 18px; background: var(--sc-input); overflow: hidden; }
+.dsh-sc-composer:focus-within { border-color: var(--sc-focus); box-shadow: none; }
+.dsh-sidecar .dsh-sc-composer textarea { min-height: 56px; max-height: 160px; display: block; border: 0; border-radius: 0; padding: 12px 12px 3px; background: transparent; font-size: 12px; resize: vertical; }
 .dsh-sc-composer-actions { display: flex; align-items: center; justify-content: space-between; gap: 6px; padding: 5px 7px 7px 10px; }
-.dsh-sc-composer-actions > span { color: #536c81; font-size: 9px; }
-.dsh-sidecar .dsh-sc-send-button { display: inline-flex; align-items: center; min-height: 28px; padding: 6px 10px; color: #0f2d33; background: var(--sc-accent); border-radius: 5px; font-size: 10px; font-weight: 650; }
-.dsh-sidecar .dsh-sc-send-button:hover:not(:disabled) { background: #91e3de; color: #0a282d; }
+.dsh-sc-composer-actions > span { color: var(--sc-muted); font-size: 9px; }
+.dsh-sidecar .dsh-sc-send-button { display: inline-flex; align-items: center; min-height: 28px; padding: 6px 10px; color: var(--sc-button-ink); background: var(--sc-accent); border-radius: 14px; font-size: 10px; font-weight: 500; }
+.dsh-sidecar .dsh-sc-send-button:hover:not(:disabled) { background: var(--sc-button-hover); color: var(--sc-button-ink); }
 .dsh-sidecar .dsh-sc-send-button:disabled { opacity: .35; }
-.dsh-sc-compose-note { display: flex; justify-content: center; align-items: center; gap: 5px; padding-top: 6px; font-size: 8px; color: #526e84; }
-.dsh-sc-compose-note .dsh-sc-status-dot { width: 4px; height: 4px; background: #4c7d86; }
-.dsh-sc-help { color: #7e94a7; font-size: 10px; line-height: 1.7; padding: 7px 9px; }
-.dsh-sc-muted { color: #657f93; font-size: 9px; }
+.dsh-sc-compose-note { display: flex; justify-content: center; align-items: center; gap: 5px; padding-top: 6px; font-size: 8px; color: var(--sc-muted); }
+.dsh-sc-compose-note .dsh-sc-status-dot { width: 4px; height: 4px; background: var(--sc-muted); }
+.dsh-sc-help { color: var(--sc-muted); font-size: 10px; line-height: 1.7; padding: 7px 9px; }
+.dsh-sc-muted { color: var(--sc-muted); font-size: 9px; }
 .dsh-sc-cyan { color: var(--sc-accent); }
 .dsh-sc-error-text { color: #e69da9; }
-.dsh-sc-property { min-width: 0; margin: 9px; border: 1px solid #33505a; border-radius: 6px; overflow: hidden; background: #172930; }
-.dsh-sc-property > summary { display: flex; align-items: center; gap: 8px; padding: 8px 10px; list-style: none; font-size: 10px; color: #9dc3c9; }
-.dsh-sc-property .dsh-sc-eyebrow { color: #75b5bd; font-size: 8px; }
+.dsh-sc-property { min-width: 0; margin: 9px; border: 1px solid var(--sc-line); border-radius: 8px; overflow: hidden; background: var(--sc-surface); }
+.dsh-sc-property > summary { display: flex; align-items: center; gap: 8px; padding: 8px 10px; list-style: none; font-size: 10px; color: var(--sc-secondary); }
+.dsh-sc-property .dsh-sc-eyebrow { color: var(--sc-secondary); font-size: 8px; }
 .dsh-sc-property-body { padding: 0 10px 9px; }
-.dsh-sc-property-stats { display: flex; gap: 12px; flex-wrap: wrap; font-size: 9px; padding: 4px 0 8px; color: #6e9aa6; }
-.dsh-sc-property-stats b { color: #afd5d9; margin-left: 4px; font-weight: 500; }
-.dsh-sc-property pre { padding: 7px; background: #102129; color: #a7c9cf; margin: 4px 0; white-space: pre-wrap; overflow-wrap: anywhere; font-size: 10px; max-height: 150px; overflow-y: auto; border-radius: 4px; }
-.dsh-sc-property-body > details { font-size: 9px; color: #789fa9; margin-top: 7px; }
-.dsh-sidecar .dsh-sc-return-dialog { width: min(570px, calc(100vw - 32px)); max-height: calc(100vh - 48px); padding: 20px; border: 1px solid #38515e; border-radius: 12px; background: #141e28; color: var(--sc-ink); box-shadow: 0 24px 100px #0009; overflow-y: auto; }
-.dsh-sc-return-dialog::backdrop { background: #050b12b8; backdrop-filter: blur(3px); }
+.dsh-sc-property-stats { display: flex; gap: 12px; flex-wrap: wrap; font-size: 9px; padding: 4px 0 8px; color: var(--sc-muted); }
+.dsh-sc-property-stats b { color: var(--sc-secondary); margin-left: 4px; font-weight: 500; }
+.dsh-sc-property pre { padding: 7px; background: var(--sc-bg); color: var(--sc-ink); margin: 4px 0; white-space: pre-wrap; overflow-wrap: anywhere; font-size: 10px; max-height: 150px; overflow-y: auto; border-radius: 4px; }
+.dsh-sc-property-body > details { font-size: 9px; color: var(--sc-muted); margin-top: 7px; }
+.dsh-sidecar .dsh-sc-return-dialog { width: min(570px, calc(100vw - 32px)); max-height: calc(100vh - 48px); padding: 20px; border: 1px solid var(--sc-line); border-radius: 16px; background: var(--sc-surface); color: var(--sc-ink); box-shadow: 0 24px 100px #0009; overflow-y: auto; }
+.dsh-sc-return-dialog::backdrop { background: #00000080; backdrop-filter: blur(3px); }
 .dsh-sc-return-header { display: flex; justify-content: space-between; gap: 12px; align-items: flex-start; }
-.dsh-sc-return-header .dsh-sc-eyebrow { color: #72abae; font-size: 8px; }
+.dsh-sc-return-header .dsh-sc-eyebrow { color: var(--sc-muted); font-size: 8px; }
 .dsh-sc-return-header h2 { font-size: 18px; line-height: 1.6; font-weight: 550; margin: 3px 0 12px; }
-.dsh-sc-return-target { display: flex; align-items: center; gap: 8px; padding: 9px 10px; border: 1px solid #2b3f4d; border-radius: 5px; background: #1a2a35; font-size: 10px; }
-.dsh-sc-return-target > span:first-child { color: #7a9aab; }
+.dsh-sc-return-target { display: flex; align-items: center; gap: 8px; padding: 9px 10px; border: 1px solid var(--sc-line); border-radius: 8px; background: var(--sc-raised); font-size: 10px; }
+.dsh-sc-return-target > span:first-child { color: var(--sc-muted); }
 .dsh-sc-return-target strong { flex: 1; min-width: 0; overflow-wrap: anywhere; font-weight: 500; }
-.dsh-sc-return-target .dsh-sc-tag { border-color: #365c60; color: #8acbc8; }
+.dsh-sc-return-target .dsh-sc-tag { border-color: var(--sc-focus); color: var(--sc-secondary); }
 .dsh-sc-return-dialog > .dsh-sc-help { padding: 12px 0 8px; font-size: 11px; }
 .dsh-sidecar .dsh-sc-return-dialog > textarea { min-height: 160px; max-height: 45vh; font-size: 12px; padding: 10px; }
 .dsh-sc-return-context { padding: 10px 0; }
-.dsh-sc-return-context > label { display: flex; align-items: center; gap: 6px; color: #8fabbc; font-size: 10px; cursor: pointer; }
-.dsh-sc-return-context .dsh-sc-packet-list { margin-top: 8px; background: #14232d; border-radius: 5px; }
+.dsh-sc-return-context > label { display: flex; align-items: center; gap: 6px; color: var(--sc-secondary); font-size: 10px; cursor: pointer; }
+.dsh-sc-return-context .dsh-sc-packet-list { margin-top: 8px; background: var(--sc-surface); border-radius: 5px; }
 .dsh-sc-return-footer { display: flex; justify-content: flex-end; gap: 8px; padding-top: 14px; }
 .dsh-sc-return-footer .dsh-sc-small-button, .dsh-sc-return-footer .dsh-sc-send-button { min-height: 32px; padding: 7px 12px; }
 .dsh-sc-return-dialog .dsh-sc-inline-error { margin: 8px 0 0; }

diff --git a/src/Panel.jsx b/src/Panel.jsx
@@ -14,6 +14,7 @@ function Icon({ name, size = 16, ...props }) {
     terminal: <><path d="m5 6 5 5-5 5M13 17h6"/></>,
     browser: <><circle cx="12" cy="12" r="9"/><path d="M3 12h18M12 3a18 18 0 0 1 0 18 18 18 0 0 1 0-18"/></>,
     chat: <path d="M4 4h16v12H9l-5 4z"/>,
+    panel: <><rect x="3" y="4" width="18" height="16" rx="2"/><path d="M14 4v16"/></>,
     plus: <path d="M12 5v14M5 12h14"/>,
     close: <path d="m6 6 12 12M18 6 6 18"/>,
     arrow: <path d="m5 12 14 0m-5-5 5 5-5 5"/>,
@@ -98,7 +99,7 @@ export default function Panel({ api, mainSessionId, onClose }) {
 }
 
 function PanelHeading({ onClose }) {
-  return <header className="dsh-sc-heading"><div className="dsh-sc-brand"><span className="dsh-sc-brand-mark"><i/><i/><i/></span><span>Sidecar<small>工作台 · 独立侧聊</small></span></div>{onClose && <button className="dsh-sc-icon-button" aria-label="关闭 Sidecar" title="关闭右栏" onClick={onClose}><Icon name="close"/></button>}</header>;
+  return <header className="dsh-sc-heading"><div className="dsh-sc-brand"><Icon name="panel" size={16}/><span>Sidecar<small>工作台 · 独立侧聊</small></span></div>{onClose && <button className="dsh-sc-icon-button" aria-label="关闭 Sidecar" title="关闭右栏" onClick={onClose}><Icon name="close"/></button>}</header>;
 }
 
 function PanelSession({ api, mainSessionId, onClose }) {

diff --git a/src/client.jsx b/src/client.jsx
@@ -13,9 +13,9 @@ function HeaderButton({ onToggle, useSidecarVisibility }) {
       title={active ? '返回工具详情' : '打开独立侧聊与工作面板'}
       style={{
         display: 'inline-flex', alignItems: 'center', gap: 6,
-        border: '1px solid rgba(128, 160, 157, 0.4)', borderRadius: 8,
+        border: '1px solid var(--dsw-alias-border-l2, #ffffff1f)', borderRadius: 14,
         padding: '5px 10px', font: 'inherit', fontSize: 12, cursor: 'pointer',
-        color: 'inherit', background: active ? 'rgba(80, 170, 160, 0.18)' : 'transparent',
+        color: 'inherit', background: active ? 'var(--dsw-alias-interactive-bg-active, #ffffff24)' : 'transparent',
       }}
     >
       <span aria-hidden="true">◧</span> Sidecar

diff --git a/README.md b/README.md
@@ -8,6 +8,7 @@
 
 ## 功能
 
+- **原生黑灰界面**：复用 DSH 的主题变量、字体和输入框层级，使用灰阶按钮与细边框。
 - **独立侧聊**：与选中的主会话关联，使用不同 Session ID。主任务和侧聊分别发送、停止、保存；关闭面板后恢复 DSH 原有工具详情。
 - **文件面板**：浏览当前工作区的文本文件，显示行号，把所选片段加入可审阅的上下文引用。识别 Property Lab JSON 报告的反例及搜索结果。
 - **命令面板**：手动运行命令，查看输出和退出码，停止自己的命令，并将选中输出附到侧聊。它是非 PTY 的命令台，每条命令从工作区启动；不支持交互密码、全屏 TUI 或跨命令保留 `cd`。

diff --git a/VALIDATION.md b/VALIDATION.md
@@ -31,6 +31,8 @@
 
 ![真实 DSH 网页预览及回传结果](docs/browser-preview.jpg)
 
+上图保留初次功能验收时的样式。随后将界面调整为 DSH 原生黑灰风格，复用 `--dsw-*` 主题变量；实际检查了文件、命令、侧聊及回传预览，浏览器控制台无错误。当前外观见 [主界面](docs/sidecar-demo.jpg) 和 [回传弹窗](docs/neutral-dialog.jpg)。本次为外观调整，未再次调用模型执行并发验收。
+
 截图来自实际运行的 DSH，验收时设置桌面视口以完整呈现双栏；没有使用生成式图片或模拟聊天替换结果。
 
 ## 自动化覆盖
